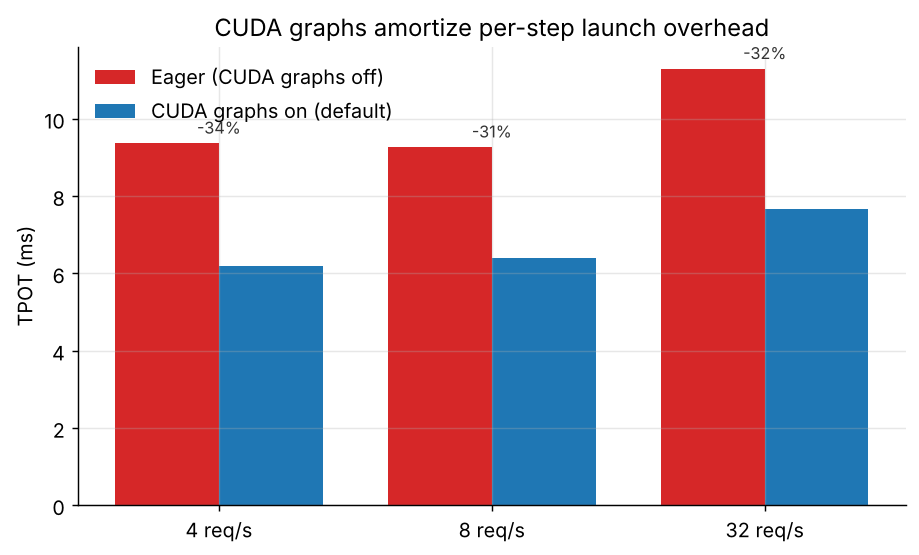
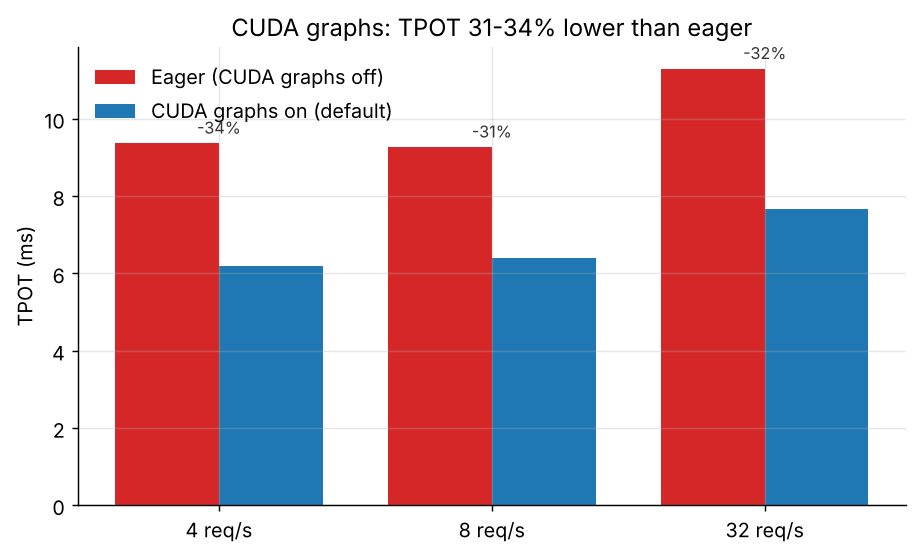
docs: state the measured reduction in the CUDA graph plot title

Changed region(s): [[0.2133, 0.0306, 0.8531, 0.0919]]

diff --git a/plot_results.py b/plot_results.py
@@ -125,7 +125,7 @@ def plot_cuda_graphs(df):
     ax.set_xticks(list(x))
     ax.set_xticklabels([f"{int(r)} req/s" for r in df["rate"]])
     ax.set_ylabel("TPOT (ms)")
-    ax.set_title("CUDA graphs amortize per-step launch overhead")
+    ax.set_title("CUDA graphs: TPOT 31-34% lower than eager")
     ax.legend(frameon=False)
     for i, (_, row) in enumerate(df.iterrows()):
         ax.text(i, max(row["tpot_eager_ms"], row["tpot_graphs_on_ms"]) + 0.25,
